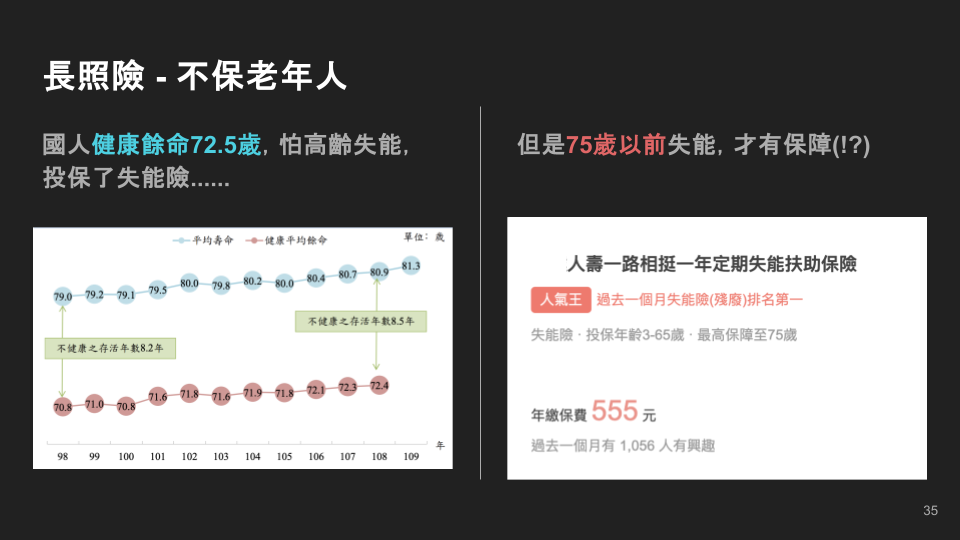
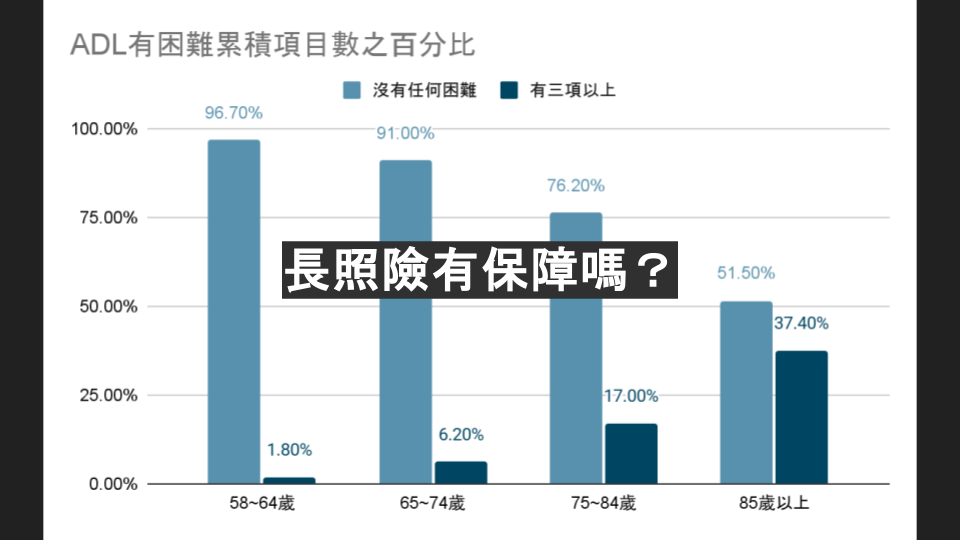
wip

diff --git a/finance/insurance.md b/finance/insurance.md
@@ -436,16 +436,16 @@ head:
    長照險更傾向保障中年失能或早期老年失能，而非高齡失能。例如，若一名被保險人在76歲或更晚才因健康問題失能，即便是符合「需長期照護」的定義，因超出保障年齡而無法獲得理賠。這種設計與人們購買長照險以應對晚年失能的初衷，存在一定的落差。
 
 2. **高齡失能更常見**  
-   隨著壽命延長，高齡失能的需求大幅增加。例如，根據調查，85歲以上的失能率顯著高於75歲以下，但保險理賠在75歲後的保障卻急轉直下。也就是說，當真正需要照護時，保險可能已無法提供幫助。
+   隨著壽命延長，高齡失能的需求大幅增加，**ADLs（每日生活活動能力）三項以上困難**是長照險出險的重要條件之一。然而，根據[民國100年台灣地區中老年身心社會生活狀況長期追蹤](https://www.hpa.gov.tw/Pages/Detail.aspx?nodeid=242&pid=18614)顯示，75歲前符合這一條件的僅 **6.2%**，而在85歲以上才增加到 **37.4%**。這意味著，真正需要保障的高齡族群，其實更可能超出保障範圍，導致保險無法提供應有的支持。
 
 3. **健康狀況的變化時間差**  
-   許多人在60歲到70歲之間，健康狀況仍然維持良好，而長照險保單此時仍處於繳費期間。然而，一旦超過75歲，當健康開始惡化，失能風險增加時，保障卻中斷，這對保戶來說是一個嚴重的保險空隙。
+   許多人在60歲到70歲之間，健康狀況仍然維持良好，而長照險保單此時仍處於繳費期間。然而，一旦超過75歲，當健康開始惡化、失能風險增加時，保障卻中斷，這對保戶來說是一個嚴重的保險空隙。
 
 #### **為什麼長照險會這樣設計？**
 
 長照險對保障年齡的設限，其背後邏輯在於保險公司的風險管理。隨著年齡增加，失能的發生率顯著提高，保障高齡族群意味著更高的理賠成本。為了維持保險的經濟可行性，保險公司通常透過限制保障年齡，降低賠付壓力。然而，這樣的設計對消費者而言，卻導致保障效果大打折扣。
 
-最後，長照險並非萬能的保障工具，而是應作為整體財務規劃的一部分。理解其限制後再決定是否購買，才能真正讓保險為未來的風險提供有效的保障。
+長照險並非萬能的保障工具，而是應作為整體財務規劃的一部分。透過了解其限制，確保個人在年老時有充足的儲蓄和其他替代方案，才能真正應對未來的長期照護需求。
 
 ![不保老人](/finance/insurance/不保老人.png "不保老人")
 
